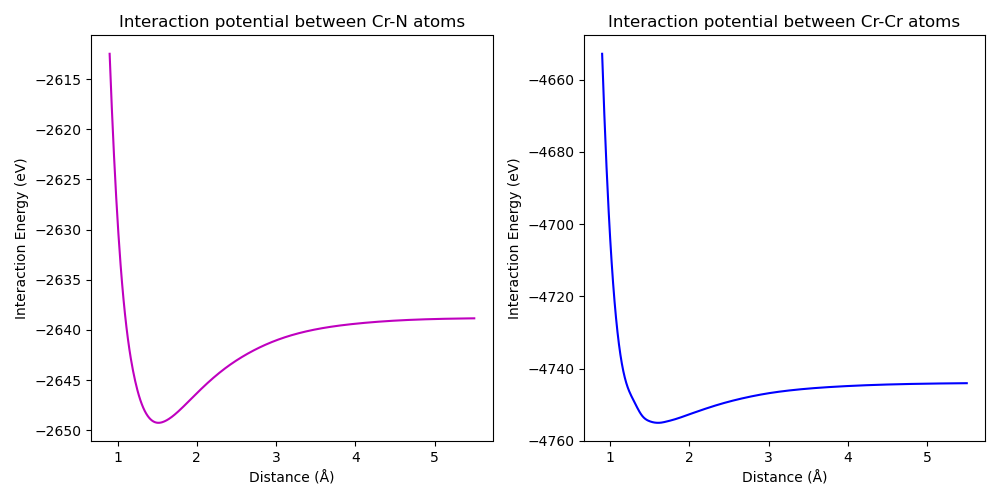
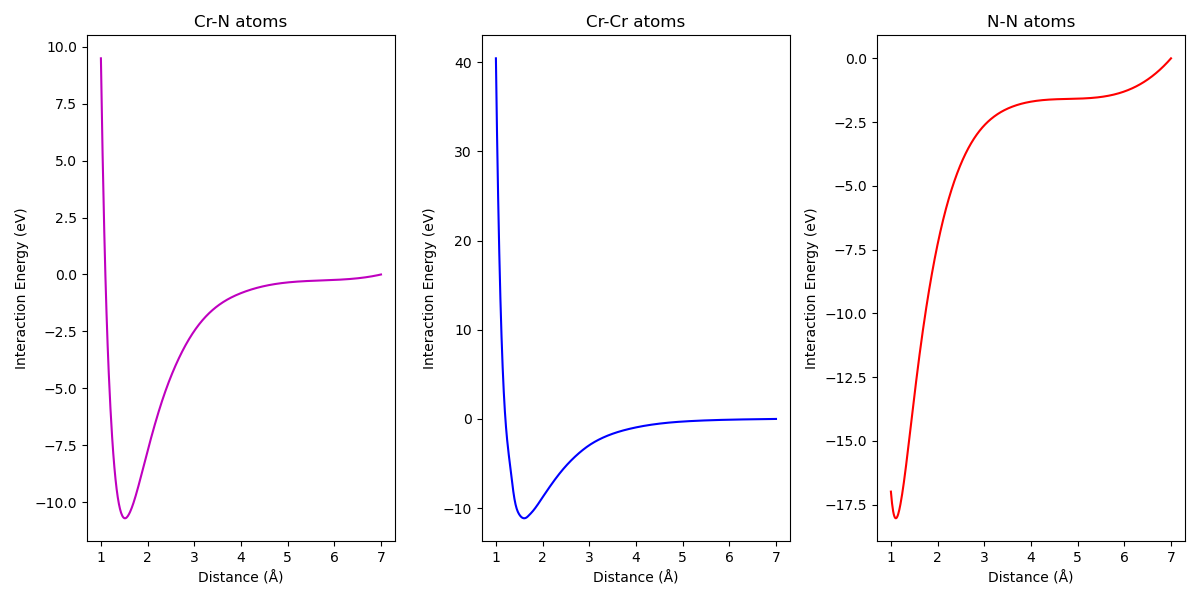
extrapolations for energy functions are added

diff --git a/article.py b/article.py
@@ -5,11 +5,57 @@ import nearmincut as nmc
 import matplotlib.pyplot as plt
 from pymatgen.core import Structure
 from matplotlib.animation import FuncAnimation, PillowWriter, FFMpegWriter
-
+from interpo import energyFunctionCrN, energyFunctionCrCr, energyFunctionNN
 
 def euclidean_distance(p1, p2):
     dist = np.sqrt(np.sum((p1-p2)**2, axis=0))
     return dist
+
+def getDistanceMatrix(cartesian_coords):
+    N = len(cartesian_coords)
+    distances = np.zeros((N,N))
+    for i in range(N):
+        for j in range(i, N):
+            p1 = cartesian_coords[i]
+            p2 = cartesian_coords[j]
+            distances[i][j] = distances[j][i] = euclidean_distance(p1, p2)
+    return distances
+
+def createSphericalNeighborhoodGraph(super_cell):
+    # Create graph given a spherical neighborhood
+    G = nx.Graph()
+    for i, site in enumerate(super_cell):
+        G.add_node(i)
+        G.nodes[i]["Species"] = label_set[site.species]
+    radius = 3
+    for i, site in enumerate(super_cell):
+        neighbors = [(n.index, n.nn_distance) for n in super_cell.get_neighbors(site, r=radius)]
+        for n in neighbors:
+            G.add_edge(i, n[0], weight=n[1])
+    return G
+
+def createDistanceGraph(cartesian_coords, label_set):
+    cutoff_distance = 2.5  # Umbral de distancia para conexión
+    N = len(cartesian_coords)
+    distances = getDistanceMatrix(cartesian_coords)
+    G = nx.DiGraph()
+    for i, site in enumerate(super_cell):
+        G.add_node(i)
+        G.nodes[i]["Species"] = label_set[site.species]
+    for i in range(N):
+        for j in range(i+1, N):
+            dist = distances[i][j]
+            if dist <= cutoff_distance:  # metric for connection of 2 atoms
+                eV = 9.462 #energy between nearest atoms
+                G.add_edge(i, j, capacity=eV, distance=dist)
+                G.add_edge(j, i, capacity=eV, distance=dist)
+    return G
+
+def createEnergyGraph(cartesian_coords, df, label_set):
+    N = len(cartesian_coords)
+    energy_matrix = np.zeros((N, N), dtype=float)
+    distances = getDistanceMatrix(cartesian_coords)
+    return
 
 def get_cut_edges(G, partition):
     """
@@ -79,51 +125,23 @@ df = super_cell.as_dataframe()
 label_set = dict(zip(df['Species'].unique(), ['Cr', 'N']))
 color_set = dict(zip(['Cr', 'N'], ['purple', 'yellow']))
 
-# Create graph given a spherical neighborhood
-G = nx.Graph()
-for i, site in enumerate(super_cell):
-    G.add_node(i)
-    G.nodes[i]["Species"] = label_set[site.species]
-    G.nodes[i]["position"] = (site.x, site.y, site.z)
-
-for i, site in enumerate(super_cell):
-    neighbors = [(n.index, n.nn_distance)
-                 for n in super_cell.get_neighbors(site, r=3)]
-    for n in neighbors:
-        G.add_edge(i, n[0], weight=n[1])
-
 # Plot graph (spherical neighborhood)
-d = nx.get_node_attributes(G, "position")
-plot_3d_graph(G, d.values(), color_set, False)
+#G1 = createSphericalNeighborhoodGraph(super_cell)
+#d = nx.get_node_attributes(G1, "position")
+#plot_3d_graph(G1, d.values(), color_set, False)
 
 # Create graph using euclidean distance
 lattice = super_cell.lattice
 fractional_coords = super_cell.frac_coords
 # Convert the fractional coordinates to Cartesian coordinates using the lattice vectors
 cartesian_coords = lattice.get_cartesian_coords(fractional_coords)
-distances = []
-N = len(cartesian_coords)
-for i in range(N):
-    p1 = cartesian_coords[i]
-    dist_i = {}
-    for j in range(N):
-        p2 = cartesian_coords[j]
-        if j != i:
-            dist_i[j] = euclidean_distance(p1, p2)
-    distances.append(dist_i)
-
-G2 = nx.Graph()
-for i, site in enumerate(super_cell):
-    G2.add_node(i)
-    G2.nodes[i]["Species"] = label_set[site.species]
-for i in range(N):
-    for key, value in distances[i].items():
-        if value <= 2.5:  # metric for connection of 2 atoms
-            eV = 9.462 #energy between nearest atoms
-            G2.add_edge(i, key, capacity=value)
-
+G2 = createDistanceGraph(cartesian_coords, label_set)
 plot_3d_graph(G2, cartesian_coords, color_set, False)
 
+# Create graph using energy
+#createEnergyGraph(cartesian_coords, df, label_set)
+
+"""
 # Max-flow min-cut networkx
 s, t = 0, 1
 cut_value, partition = nx.minimum_cut(G2, s, t)
@@ -131,7 +149,7 @@ print(cut_value)
 cut_edges = get_cut_edges(G2, partition)
 
 plot_3d_graph(G2, cartesian_coords, color_set, True, cut_edges)
-"""
+
 #near Max-flow min-cut
 kwargs={'eps':0.125}
 s, t = 0, 2

diff --git a/interpo.py b/interpo.py
@@ -2,35 +2,64 @@ import numpy as np
 from scipy import interpolate
 import matplotlib.pyplot as plt
 
-# Load data from .dat file
-data_CrN = np.loadtxt('curva_morse_CrN.dat')
-x_CrN = data_CrN[:, 0]  # distance
-y_CrN = data_CrN[:, 1] * 13.6056980658938 # energy
-# Create an interpolation function for interaction potential between Cr and N atoms
-f = interpolate.interp1d(x_CrN, y_CrN, kind='cubic', fill_value="extrapolate")
+eV_factor = 13.6056980658938
 
-# Load data from .dat file
-data_CrCr = np.loadtxt('curva_morse_Cr.dat')
-x_CrCr = data_CrCr[:, 0]  # distance
-y_CrCr = data_CrCr[:, 1] * 13.6056980658938 # energy
-# Create an interpolation function for interaction potential between Cr atoms
-g = interpolate.interp1d(x_CrCr, y_CrCr, kind='cubic', fill_value="extrapolate")
+def energyFunctionCrN():
+    # Load data from .dat file
+    data_CrN = np.loadtxt('curva_morse_CrN.dat')
+    x_CrN = data_CrN[:, 0]  # distance
+    y_CrN = data_CrN[:, 1] * eV_factor # energy
+    # Create an interpolation function for interaction potential between Cr and N atoms
+    f = interpolate.interp1d(x_CrN, y_CrN, kind='cubic', fill_value="extrapolate")
+    def new_f(x):
+        return f(x) - f(7)
+    return new_f
 
-x_min = np.min([np.min(x_CrCr), np.min(x_CrN)])
-x_max = np.min([np.max(x_CrCr), np.max(x_CrN)])
+def energyFunctionCrCr():
+    # Load data from .dat file
+    data_CrCr = np.loadtxt('curva_morse_Cr.dat')
+    x_CrCr = data_CrCr[:, 0]  # distance
+    y_CrCr = data_CrCr[:, 1] * eV_factor # energy
+    # Create an interpolation function for interaction potential between Cr atoms
+    g = interpolate.interp1d(x_CrCr, y_CrCr, kind='cubic', fill_value="extrapolate")
+    def new_g(x):
+        return g(x) - g(7)
+    return new_g
 
-x_values = np.linspace(x_min, x_max, 500)
-energy_CrN = f(x_values)
-energy_CrCr = g(x_values)
+def energyFunctionNN():
+    # Load data from .dat file
+    data_NN = np.loadtxt('bond-lenght.dat')
+    x_NN = data_NN[:, 0]  # distance
+    y_NN = data_NN[:, 1] * eV_factor # energy
+    # Create an interpolation function for interaction potential between N atoms
+    h = interpolate.interp1d(x_NN, y_NN, kind='cubic', fill_value="extrapolate")
+    def new_h(x):
+        return h(x) - h(7)
+    return new_h
 
-fig, (ax1, ax2) = plt.subplots(1, 2, figsize=(10, 5))
-ax1.plot(x_values, energy_CrN, color='m')
-ax1.set_xlabel('Distance (Å)')
-ax1.set_ylabel('Interaction Energy (eV)')
-ax1.set_title('Interaction potential between Cr-N atoms')
-ax2.plot(x_values, energy_CrCr, color='b')
-ax2.set_xlabel('Distance (Å)')
-ax2.set_ylabel('Interaction Energy (eV)')
-ax2.set_title('Interaction potential between Cr-Cr atoms')
-plt.tight_layout()
-plt.show()
+def testMethod():
+    x_values = np.linspace(1, 7, 500)
+    f = energyFunctionCrN()
+    g = energyFunctionCrCr()
+    h = energyFunctionNN()
+    energy_CrN = f(x_values)
+    energy_CrCr = g(x_values)
+    energy_NN = h(x_values)
+
+    fig, (ax1, ax2, ax3) = plt.subplots(1, 3, figsize=(12, 6))
+    ax1.plot(x_values, energy_CrN, color='m')
+    ax1.set_xlabel('Distance (Å)')
+    ax1.set_ylabel('Interaction Energy (eV)')
+    ax1.set_title('Cr-N atoms')
+    ax2.plot(x_values, energy_CrCr, color='b')
+    ax2.set_xlabel('Distance (Å)')
+    ax2.set_ylabel('Interaction Energy (eV)')
+    ax2.set_title('Cr-Cr atoms')
+    ax3.plot(x_values, energy_NN, color='r')
+    ax3.set_xlabel('Distance (Å)')
+    ax3.set_ylabel('Interaction Energy (eV)')
+    ax3.set_title('N-N atoms')
+    plt.tight_layout()
+    plt.show()
+
+#testMethod()
